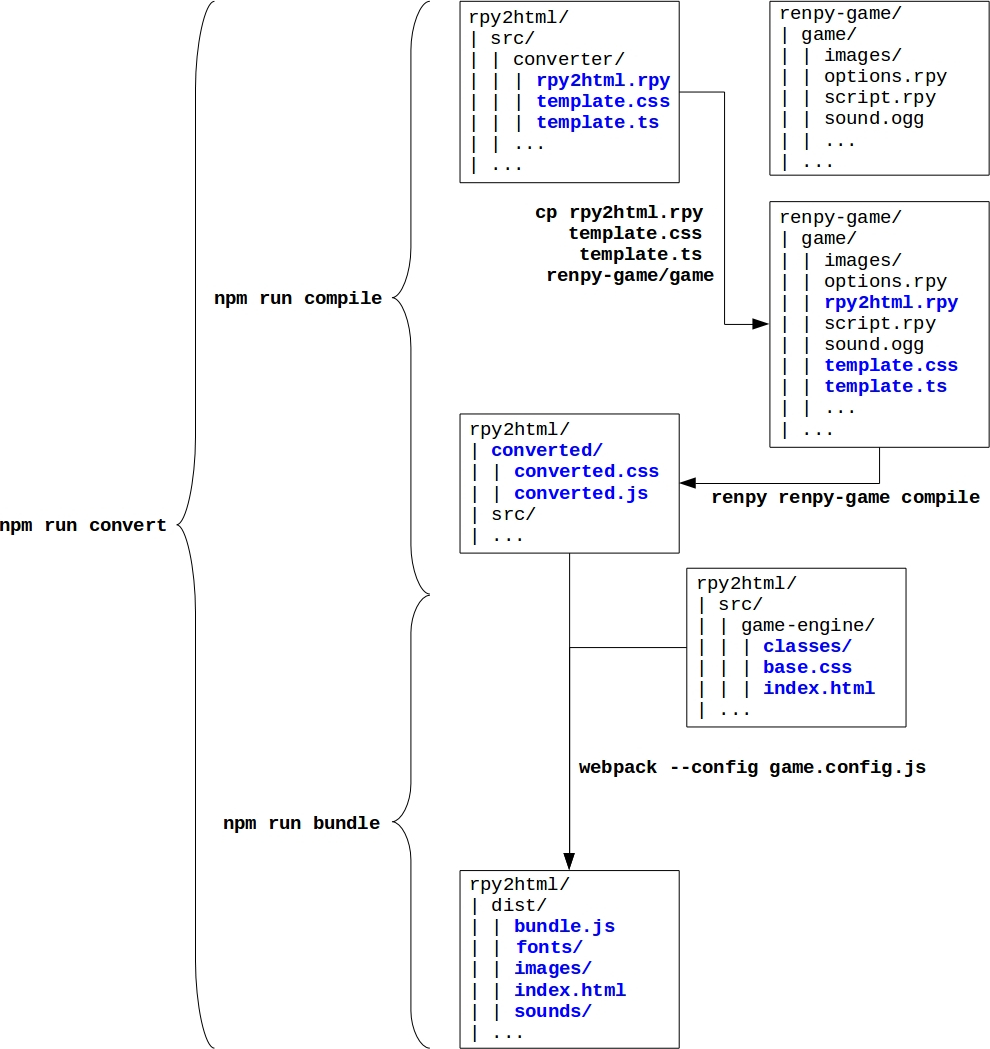
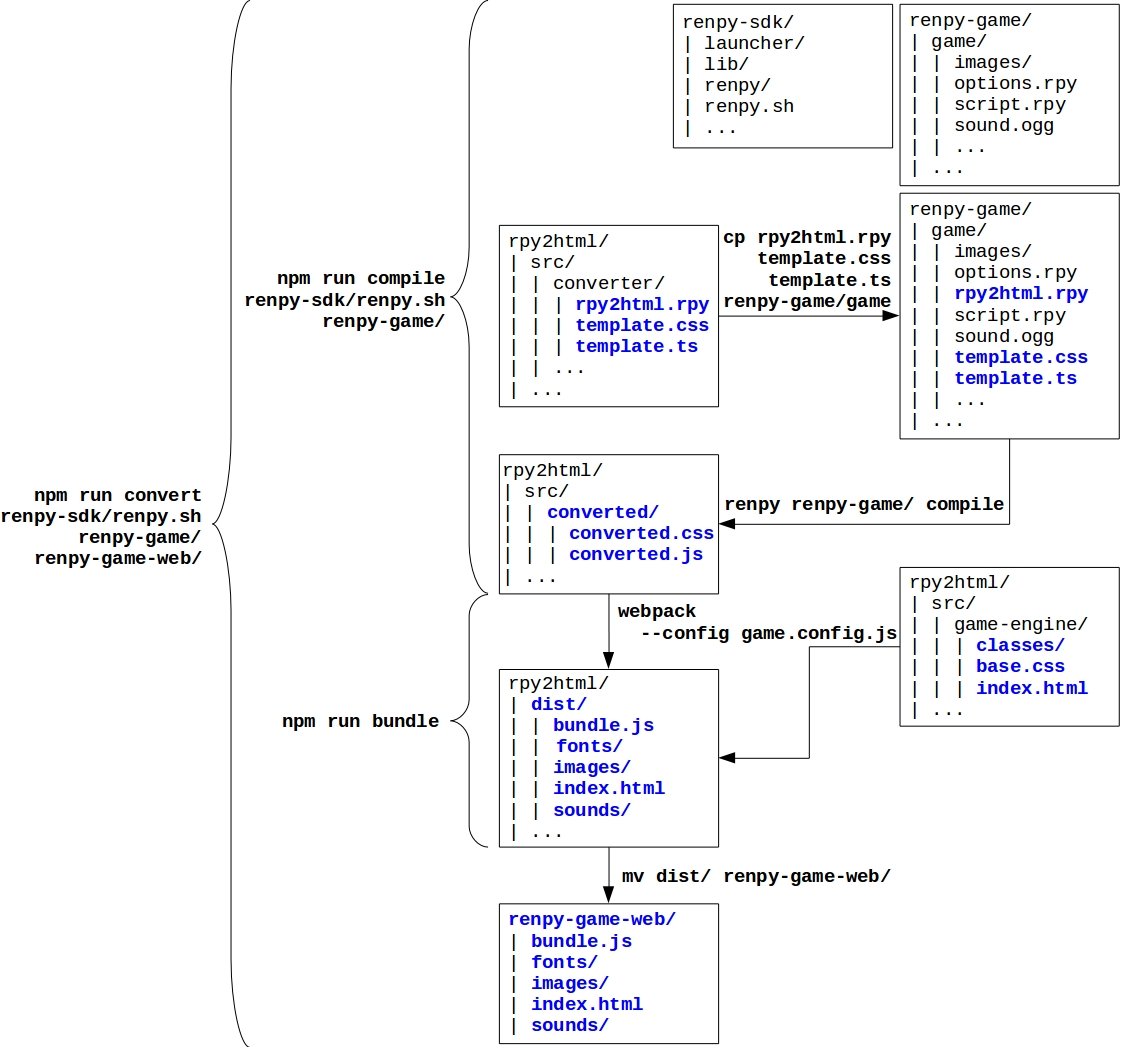
[EDIT] scripts: added output dir option; updated README

Changed region(s): [[0.0, 0.0, 1.0, 1.0], [0.9697, 0.6724, 1.0, 0.703]]

diff --git a/utils/convert.py b/utils/convert.py
@@ -5,13 +5,20 @@
 
 from sys import argv
 from os import path
+from shutil import move
 from subprocess import call
 
 
 if __name__ == "__main__":
-    if len(argv) == 3:
+    if len(argv) == 3 or len(argv) == 4:
+        DEFAULT_OUTPUT = path.abspath(path.join(path.dirname(__file__), "../dist"))
+
         renpy = argv[1]
         game = argv[2]
+        if len(argv) == 4:
+            output_dir = path.abspath(argv[3])
+        else:
+            output_dir = DEFAULT_OUTPUT
 
         utils = path.dirname(__file__)
         compile = path.join(utils, "compile.py")
@@ -21,12 +28,15 @@ if __name__ == "__main__":
         if code == 0:
             code = call([bundle])
 
-        if code != 0:
-            exit(1)
+        # moving to output dir
+        if output_dir != DEFAULT_OUTPUT:
+            move(DEFAULT_OUTPUT, output_dir)
+
+        exit(code)
 
     else:
         print(
-"""Illegal number of parameters, 2 required
+"""Illegal number of parameters, 2 or 3 required
 
 Usage:
-    convert.py <path-to-renpy-executable> <path-to-renpy-game-folder>""")
+    convert.py <path-to-renpy-executable> <path-to-renpy-game-folder> [output-folder=dist]""")

diff --git a/utils/compile.py b/utils/compile.py
@@ -43,8 +43,7 @@ if __name__ == "__main__":
 
         [remove_from_game(f) for f in to_be_removed]
 
-        if code != 0:
-            exit(1)
+        exit(code)
 
     else:
         print(

diff --git a/README.md b/README.md
@@ -21,7 +21,7 @@ Install dependencies of the project:
 
 ## Use
 
-        npm run convert <path-to-renpy-executable> <path-to-renpy-game>
+        npm run convert <path-to-renpy-executable> <path-to-renpy-game> [output-folder=dist]
 
 
 See also:
